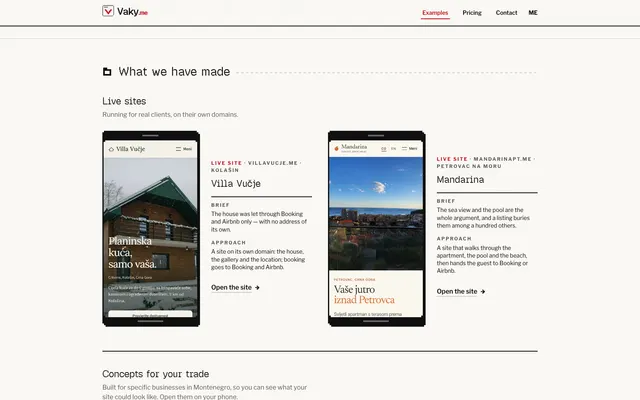
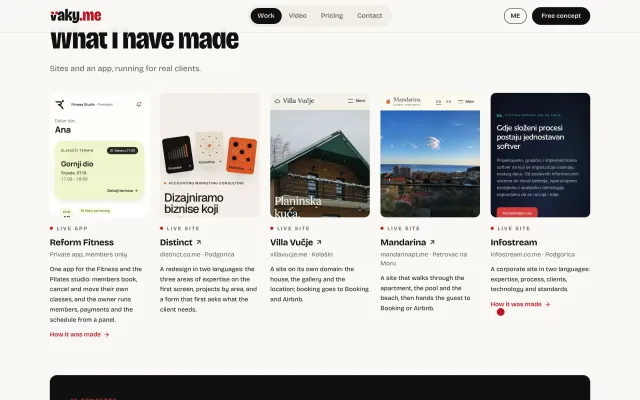
Distinct joins the work, and Vaky shows its new site

diff --git a/src/app/projects.ts b/src/app/projects.ts
@@ -1,4 +1,4 @@
-/* Project data (nine projects, newest first) — the single source of truth for the chat's project cards,
+/* Project data (ten projects, newest first) — the single source of truth for the chat's project cards,
    the facts the chat model is given (api/chat/prompt.ts) AND the crawlable
    case-study routes under /work/[slug]. Plain data, no "use client": client
    components and server routes both import it.
@@ -93,6 +93,49 @@ export const PROJECTS: Project[] = [
     ],
   },
   {
+    slug: "distinct",
+    title: "Distinct",
+    blurb:
+      "A redesign for Distinct, a Podgorica firm in accounting, marketing and consulting, built for a client: a bilingual static Vite site with GSAP and Lenis motion, a case study page for every project, and the motion graphics made in Remotion.",
+    problem:
+      "A firm with three practices needed a site that says what it does on the first screen, shows its work by practice, and asks a visitor what they need before anything else, in Montenegrin and in English.",
+    highlights: [
+      "The three practices on the first screen, each with its own seamless 6 s loop rendered in Remotion",
+      "Selected work filtered by practice, and a case study page for each project, built at /projekti/<slug>/ and /en/projekti/<slug>/",
+      "Montenegrin is the source; the build writes the English pages from keyed translations and fails if a page's element count changes",
+      "Page changes without a reload: the next page is fetched under a wipe, and a page from a newer deploy loads normally instead",
+    ],
+    result: [
+      "Live at distinct.co.me, deployed by Cloudflare Workers Builds on every push, as static assets with no server code.",
+      "Every page ships in both languages with its own title, description, canonical address and hreflang pair, and both are in the sitemap.",
+      "The contact form asks what the visitor needs first (finance, marketing, consulting, company registration) and hands the message to their email app; there is no backend to keep running.",
+    ],
+    kpis: [
+      // grep -c "slug:" site/src/projects.js
+      { label: "case study pages", value: "23, each in two languages" },
+      // grep -c "<Composition" video/src/Root.tsx
+      { label: "Remotion compositions", value: "7: showreels, loops, share image" },
+      // git log --oneline | wc -l
+      { label: "commits", value: "35 since 23 October 2026" },
+    ],
+    role: "Solo build, client work",
+    kind: "client",
+    context: "Vaky, October 2026",
+    stack: ["Vite", "JavaScript", "GSAP", "Lenis", "Remotion", "Cloudflare Workers"],
+    live: "https://distinct.co.me/en/",
+    code: null,
+    note: "The repository is private, so there is no code link.",
+    shot: "/images/projects/distinct.webp",
+    video: null,
+    domain: "distinct.co.me",
+    gallery: [
+      { src: "/images/projects/distinct.webp", label: "Home" },
+      { src: "/images/projects/distinct-services.webp", label: "Services" },
+      { src: "/images/projects/distinct-work.webp", label: "Selected work" },
+      { src: "/images/projects/distinct-contact.webp", label: "Contact form" },
+    ],
+  },
+  {
     slug: "infostream",
     title: "Infostream",
     blurb:
@@ -142,45 +185,44 @@ export const PROJECTS: Project[] = [
     slug: "vaky",
     title: "Vaky.me",
     blurb:
-      "My own web studio's site and back office: a bilingual static Next.js export selling websites to local businesses, and Cloudflare Pages Functions behind it that take an enquiry through lead, project, private onboarding brief and build brief. No payments, no CMS.",
+      "My own web studio's site and back office: a bilingual static Next.js export selling websites, apps and motion design videos to local businesses, with a page of its own for US small businesses, and Cloudflare Pages Functions behind it that take an enquiry through lead, project, private onboarding brief and build brief. No payments, no CMS.",
     problem:
       "A one-person studio needed a site that sells websites to Montenegrin restaurants, salons and gyms, and a way to take an enquiry through to a signed-off brief without email threads and spreadsheets.",
     highlights: [
-      "Static Next.js 16 export in two languages, with 15 concept sites under /demo, each a real page",
+      "Static Next.js 16 export in two languages, plus a /us/ page without the euro prices; 15 concept sites for Montenegrin trades under /demo and 50 for US businesses under /c/, each a real page",
+      "Prices as a calculator that prints the bill as the package and add-ons change; nothing is paid through the site",
+      "The motion design videos it sells and shows are Remotion compositions in the same repo, the site's own showreel rendered from the shots the page builds",
       "Pages Functions + D1 + R2: lead form, admin dashboard, single-use onboarding links that carry the package server-side",
-      "Three layers before a stranger's write: edge rate limit, honeypot, Turnstile; strict CSP from public/_headers",
+      "Three layers before a stranger's write: edge rate limit, honeypot, Turnstile, and an address whose domain takes no mail is refused; strict CSP from public/_headers",
     ],
     result: [
-      "Live at vaky.me, and two client sites listed on this page (Villa Vučje, Mandarina) came in through it.",
+      "Live at vaky.me, and two client sites listed on this page (Villa Vučje, Mandarina) came in through it. Its work section shows Reform Fitness, Distinct, Villa Vučje, Mandarina and Infostream.",
       "A lead is stored first and emailed after, off the request: the database is the record and the inbox a courtesy, so a mail outage never loses an enquiry.",
       "CI runs lint, both tsconfigs (site and Workers), the export, the Functions build, npm audit and an axe pass against the served export.",
     ],
     kpis: [
       // find functions/api -name '*.ts' | wc -l
       { label: "API endpoints", value: "24 Pages Functions" },
-      // ls src/app/\(me\)/demo | wc -l
-      { label: "concept sites", value: "15, each its own route" },
-      // gh api repos/Toshkee/Vaky.me/commits, created 25 Aug 2026
-      { label: "commits", value: "101 since August 2026" },
+      // ls src/app/\(me\)/demo | wc -l; ls public/c | grep -v '^_' | wc -l
+      { label: "concept sites", value: "15 in Montenegro, 50 for the US" },
+      // ls public/video/*.mp4 | wc -l
+      { label: "motion design videos", value: "9 on the site, Remotion" },
     ],
     role: "Solo build, own studio",
     kind: "build",
     context: "Vaky, since August 2026",
-    stack: ["Next.js 16", "TypeScript", "Cloudflare Pages Functions", "D1", "R2"],
+    stack: ["Next.js 16", "TypeScript", "Cloudflare Pages Functions", "D1", "R2", "Remotion"],
     live: "https://vaky.me/en/",
-    code: "https://github.com/Toshkee/Vaky.me",
+    code: null,
+    note: "The studio's repository is private, so there is no code link.",
     shot: "/images/projects/vaky.webp",
-    video: {
-      src: "/video/projects/vaky.mp4",
-      poster: "/images/projects/vaky-demo.webp",
-      width: 1920,
-      height: 1200,
-    },
+    video: null,
     domain: "vaky.me",
     gallery: [
       { src: "/images/projects/vaky.webp", label: "Home" },
-      { src: "/images/projects/vaky-work.webp", label: "Live sites and concepts" },
-      { src: "/images/projects/vaky-concept.webp", label: "One of the 15 concepts" },
+      { src: "/images/projects/vaky-work.webp", label: "Live work" },
+      { src: "/images/projects/vaky-motion.webp", label: "Motion design videos" },
+      { src: "/images/projects/vaky-pricing.webp", label: "Price calculator" },
     ],
   },
   {
@@ -463,6 +505,7 @@ export const VAKY_CASE = {
   arch: `cloudflare pages ── next 16 static export
  │  (me)/ and (en)/ route groups
  │   15 concept sites under /demo
+ │   /us/ page · 50 US concepts in /c/
  │   public/_headers: strict CSP
  └─ functions/ pages functions
      ├ api/lead  the one public write

diff --git a/src/app/work/page.tsx b/src/app/work/page.tsx
@@ -11,69 +11,71 @@ import Crumbs from "../site/Crumbs";
 export const metadata: Metadata = {
   title: "Work — case studies | Pavle Tošić",
   description:
-    "Case studies for nine projects: what the problem was, what I decided, what broke, and what shipped.",
+    "Case studies for ten projects: what the problem was, what I decided, what broke, and what shipped.",
   alternates: { canonical: "https://pavletosic.com/work" },
 };
 
 export default function WorkIndex() {
   return (
-    <main className="mx-auto w-full max-w-4xl px-5 py-14 sm:px-8 sm:py-20">
-      <Crumbs trail={[{ label: "Work" }]} />
+    <main className="mx-auto w-full max-w-4xl px-3 py-6 sm:px-8 sm:py-14">
+      <div className="glass rounded-3xl px-5 py-8 sm:px-10 sm:py-12">
+        <Crumbs trail={[{ label: "Work" }]} />
 
-      <h1 className="mt-6 font-display text-4xl font-bold tracking-tight text-ink sm:text-5xl">
-        Work
-      </h1>
-      <p className="mt-4 max-w-[70ch] text-[15px] leading-[1.7] text-body">
-        Nine projects, each with a case study: the problem it set out to solve,
-        the decisions behind it, what broke along the way, and what shipped.
-        Or{" "}
-        <Link
-          href={{
-            pathname: "/chat",
-            query: { q: "What are your projects? What have you built recently?" },
-          }}
-          className="link-underline text-ink"
-        >
-          ask me about them
-        </Link>
-        .
-      </p>
+        <h1 className="mt-6 font-display text-4xl font-bold tracking-tight text-ink sm:text-5xl">
+          Work
+        </h1>
+        <p className="mt-4 max-w-[70ch] text-[15px] leading-[1.7] text-body">
+          Nine projects, each with a case study: the problem it set out to solve,
+          the decisions behind it, what broke along the way, and what shipped.
+          Or{" "}
+          <Link
+            href={{
+              pathname: "/chat",
+              query: { q: "What are your projects? What have you built recently?" },
+            }}
+            className="link-underline text-ink"
+          >
+            ask me about them
+          </Link>
+          .
+        </p>
 
-      <ul className="mt-10 divide-y divide-line border-y border-line">
-        {PROJECTS.map((p) => (
-          <li key={p.slug}>
-            <Link
-              href={`/work/${p.slug}`}
-              className="flex gap-6 py-6 text-body transition-colors hover:text-ink"
-            >
-              <Image
-                src={thumbOf(p.shot)}
-                alt=""
-                width={160}
-                height={100}
-                className="plate hidden h-[100px] w-[160px] shrink-0 rounded-[6px] object-cover object-top sm:block"
-              />
-              <div>
-                <h2 className="font-display text-xl font-medium tracking-tight text-ink">
-                  {p.title}
-                </h2>
-                <p className="mt-1 text-[13px] text-faint">
-                  {p.role}, {p.context}
-                </p>
-                <p className="mt-2 max-w-[65ch] text-sm leading-relaxed text-body">
-                  {p.blurb}
-                </p>
-              </div>
-            </Link>
-          </li>
-        ))}
-      </ul>
+        <ul className="mt-10 divide-y divide-line border-y border-line">
+          {PROJECTS.map((p) => (
+            <li key={p.slug}>
+              <Link
+                href={`/work/${p.slug}`}
+                className="flex gap-6 py-6 text-body transition-colors hover:text-ink"
+              >
+                <Image
+                  src={thumbOf(p.shot)}
+                  alt=""
+                  width={160}
+                  height={100}
+                  className="plate hidden h-[100px] w-[160px] shrink-0 rounded-[6px] object-cover object-top sm:block"
+                />
+                <div>
+                  <h2 className="font-display text-xl font-medium tracking-tight text-ink">
+                    {p.title}
+                  </h2>
+                  <p className="mt-1 text-[13px] text-faint">
+                    {p.role}, {p.context}
+                  </p>
+                  <p className="mt-2 max-w-[65ch] text-sm leading-relaxed text-body">
+                    {p.blurb}
+                  </p>
+                </div>
+              </Link>
+            </li>
+          ))}
+        </ul>
 
-      <p className="mt-12 border-t border-line pt-6 text-[13px] text-faint">
-        <Link href="/" className="transition-colors hover:text-ink">
-          Back to the front page
-        </Link>
-      </p>
+        <p className="mt-12 border-t border-line pt-6 text-[13px] text-faint">
+          <Link href="/" className="transition-colors hover:text-ink">
+            Back to the front page
+          </Link>
+        </p>
+      </div>
     </main>
   );
 }

diff --git a/src/app/site/github.ts b/src/app/site/github.ts
@@ -1,4 +1,4 @@
-/* Generated by scripts/github.mjs on 2026-10-09: do not edit by hand, run
+/* Generated by scripts/github.mjs on 2026-11-02: do not edit by hand, run
    `npm run github` and commit the result. What the GitHub card and the
    chat's FACTS know about the public account; see the script for what is
    counted and why only project repos are listed. */
@@ -30,13 +30,13 @@ export const GITHUB: {
 } = {
   "user": "Toshkee",
   "url": "https://github.com/Toshkee",
-  "asOf": "2026-10-09",
-  "asOfPretty": "9 Oct 2026",
+  "asOf": "2026-11-02",
+  "asOfPretty": "2 Nov 2026",
   "memberSince": "2024",
-  "publicRepos": 56,
-  "windowDays": 30,
-  "pushes": 47,
-  "reposPushed": 7,
+  "publicRepos": 62,
+  "windowDays": 22,
+  "pushes": 92,
+  "reposPushed": 12,
   "repos": [
     {
       "name": "Pavle-Tosic",
@@ -44,8 +44,8 @@ export const GITHUB: {
       "slug": null,
       "url": "https://github.com/Toshkee/Pavle-Tosic",
       "language": "TypeScript",
-      "pushedAt": "2026-10-09",
-      "pushed": "9 Oct 2026"
+      "pushedAt": "2026-11-01",
+      "pushed": "1 Nov 2026"
     },
     {
       "name": "CryptoFlow",
@@ -53,17 +53,8 @@ export const GITHUB: {
       "slug": "cryptoflow",
       "url": "https://github.com/Toshkee/CryptoFlow",
       "language": "TypeScript",
-      "pushedAt": "2026-10-08",
-      "pushed": "8 Oct 2026"
-    },
-    {
-      "name": "Vaky.me",
-      "title": "Vaky.me",
-      "slug": "vaky",
-      "url": "https://github.com/Toshkee/Vaky.me",
-      "language": "TypeScript",
-      "pushedAt": "2026-10-08",
-      "pushed": "8 Oct 2026"
+      "pushedAt": "2026-10-14",
+      "pushed": "14 Oct 2026"
     },
     {
       "name": "MandarinaPetrovac",

diff --git a/CLAUDE.md b/CLAUDE.md
@@ -117,7 +117,7 @@ An AI portfolio after aaabadcode.com / toukoum.fr: one landing screen, and a cha
 - `chat-protocol.ts`: the wire types (`Card`, `ChatEvent`, `Turn`), the limits and the failure message, shared by route and client.
 
 **Data:**
-- `src/app/projects.ts`: the nine projects, newest first (Reform Fitness, then the Infostream company site), case-study text, KPIs and gallery. `live`/`code` are null for a private app or repo (Reform: no link anywhere, as on vaky.me), `note` is the one-line honest status, `phone` marks portrait screens. `video` is a 10-20 s demo clip (`public/video/projects/`, 1920 wide at 60 fps, Reform 720x1558 and Ronin 1920x1080; H.264 with BT.709 colour, no audio, metadata stripped) with a poster cut from the clip (`<name>-demo.webp` plus its `-thumb` twin): it leads the gallery strip in `ProjectDetail.tsx` and replaces the still on the case study (`preload="none"`, so only the poster loads). `scripts/record-demos.mjs` films them (its header has the how and the env switches): Playwright drives each live site at 2x while the page runs on a slowed clock, so every 1/60 s of page time gets a frame, and a camera eases toward each click. Reform films its demo build (`npx vite --port 5199` in its repo), Meet2Explore its landing slides only (the backend has lapsed), CryptoFlow logs in as the demo user and never places an order (the account is shared). Clips are served through `worker.ts` for byte ranges (see Deployment). Single source of truth for the chat's project cards, the prompt's facts and the crawlable case studies under `/work` and `/work/[slug]` (server components, prerendered via `generateStaticParams`).
+- `src/app/projects.ts`: the ten projects, newest first (Reform Fitness, the Distinct redesign, then the Infostream company site), case-study text, KPIs and gallery. `live`/`code` are null for a private app or repo (Reform: no link anywhere, as on vaky.me; Distinct and Vaky.me: private repos since 2026-11, live links only), `note` is the one-line honest status, `phone` marks portrait screens. `video` is a 10-20 s demo clip (`public/video/projects/`, 1920 wide at 60 fps, Reform 720x1558 and Ronin 1920x1080; H.264 with BT.709 colour, no audio, metadata stripped) with a poster cut from the clip (`<name>-demo.webp` plus its `-thumb` twin): it leads the gallery strip in `ProjectDetail.tsx` and replaces the still on the case study (`preload="none"`, so only the poster loads). `scripts/record-demos.mjs` films them (its header has the how and the env switches): Playwright drives each live site at 2x while the page runs on a slowed clock, so every 1/60 s of page time gets a frame, and a camera eases toward each click. Reform films its demo build (`npx vite --port 5199` in its repo), Meet2Explore its landing slides only (the backend has lapsed), CryptoFlow logs in as the demo user and never places an order (the account is shared). Clips are served through `worker.ts` for byte ranges (see Deployment). Single source of truth for the chat's project cards, the prompt's facts and the crawlable case studies under `/work` and `/work/[slug]` (server components, prerendered via `generateStaticParams`).
 - **Pavle's CV (`public/pavle-tosic-cv.pdf`) is the source of truth** for About, skills, work experience and education: `content.ts` follows it in its wording, and nothing goes in that is not on it or in a project repo.
 - `src/app/site/content.ts`: name, role, links, the Memoji (`MEMOJI`: the face sticker on the chat header, the laptop one shown while an answer is on its way, the "call me" one on the contact card, and the `gaze` layers for the landing page) and the real photo (`PHOTO`, the Me card), About copy, spec sheet, stack marks, `EXPERIENCE` and `EDUCATION`, `IN_PROGRESS` (the two Godot games, parked: a line under the project rail, never volunteered by the chat) and `FUN` (hobbies, in Pavle's own words; photos in `public/images/fun/`, his gameplay clips in `public/video/fun/` as H.264 at 540px with metadata stripped). Honesty rules are written into the comments there (a contribution is called a contribution, a prototype a prototype). A fact not in this file or `projects.ts` does not exist for the chat.
 - `src/app/contact.ts`: the email address, shared with the JSON-LD in `layout.tsx`.
@@ -127,7 +127,7 @@ An AI portfolio after aaabadcode.com / toukoum.fr: one landing screen, and a cha
 
 ## Design
 
-After the reference: white page, black type, grey watermark; the send button (`--send`) is black in light and blue in dark. Behind every page but `/play` runs a film per theme (`site/FilmBackdrop.tsx`, mounted in `layout.tsx` as a fixed layer at z-index -20, under the cursor trail): `public/video/film-dark.mp4`, red monoliths in a forest, a free MotionSites background (motionsites.ai/backgrounds), and `film-light.mp4`, the same clip graded to ink on white paper (the ffmpeg filter is in the component's comment), both re-encoded like the demo clips; their first frames (`public/images/film-*.webp`) are the CSS background before hydration and under reduced motion, and only the current theme's clip loads. `.film` in `globals.css` lays the same light wash of the page colour over it on every page; the type stays readable through stronger type tokens, with no halo (a glow round the type was tried and dropped: it clouded the lines over the rock). Light is all black, ink on the ink-on-paper film: `--ink`, `--body`, `--muted`, `--faint` and `--send` are all #0a0a0a, hierarchy by size and weight alone (grey and then warm-orange type were tried over the film and dropped, 2026-11-01); dark keeps its greys one step lighter and the blue send button. Light by default (the OS setting is ignored); dark only when the visitor picks it with `ThemeToggle.tsx`, which writes `data-theme` on `<html>` and `localStorage.theme`; an inline script in `layout.tsx` restores it before first paint. The `dark:` variant is a custom one keyed on that attribute. Token names (`bg`, `surface`, `plate`, `ink`, `body`, `muted`, `faint`, `line`, `line-strong`) are shared with `/about`, `/work` and `/privacy`; change values, not names.
+After the reference: white page, black type, grey watermark; the send button (`--send`) is black in light and blue in dark. Behind every page but `/play` runs a film per theme (`site/FilmBackdrop.tsx`, mounted in `layout.tsx` as a fixed layer at z-index -20, under the cursor trail): `public/video/film-dark.mp4`, red monoliths in a forest, a free MotionSites background (motionsites.ai/backgrounds), and `film-light.mp4`, the same clip graded to ink on white paper (the ffmpeg filter is in the component's comment), both re-encoded like the demo clips; their first frames (`public/images/film-*.webp`) are the CSS background before hydration and under reduced motion, and only the current theme's clip loads. `.film` in `globals.css` lays the same light wash of the page colour over it on every page; in the chat each text answer is a `.glass` bubble and each card a `.glass` sheet (the light film's rock made bare answers hard to read), and every text page (/about, /work, the case studies, /how-its-built, /privacy, the 404) sits on one such sheet (half the page colour, a 28px blur, a lit top edge; 2026-11-02, no measurable scroll cost on the production build), the landing's footer links are frosted pills like "Open to work", and the type stays readable through stronger type tokens, with no halo (a glow round the type was tried and dropped: it clouded the lines over the rock). Light is all black, ink on the ink-on-paper film: `--ink`, `--body`, `--muted`, `--faint` and `--send` are all #0a0a0a, hierarchy by size and weight alone (grey and then warm-orange type were tried over the film and dropped, 2026-11-01); dark keeps its greys one step lighter and the blue send button. Light by default (the OS setting is ignored); dark only when the visitor picks it with `ThemeToggle.tsx`, which writes `data-theme` on `<html>` and `localStorage.theme`; an inline script in `layout.tsx` restores it before first paint. The `dark:` variant is a custom one keyed on that attribute. Token names (`bg`, `surface`, `plate`, `ink`, `body`, `muted`, `faint`, `line`, `line-strong`) are shared with `/about`, `/work` and `/privacy`; change values, not names.
 
 `docs/slop.md` is the anti-slop design law. Components ported from 21st.dev are credited by URL in their top comment; nothing is installed from the registry.
 
